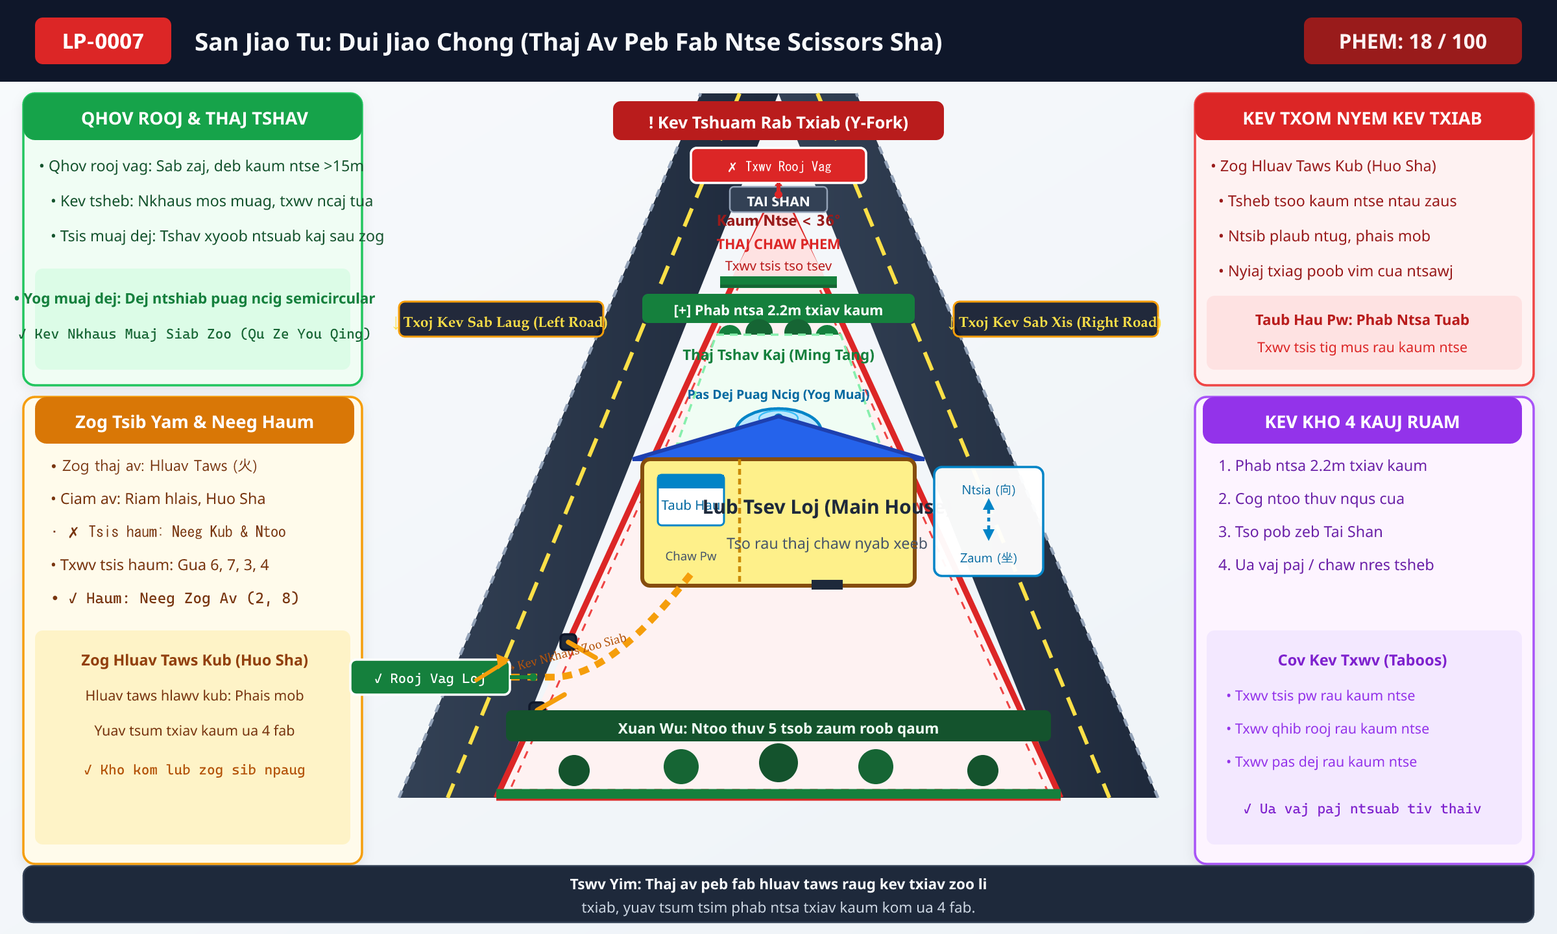
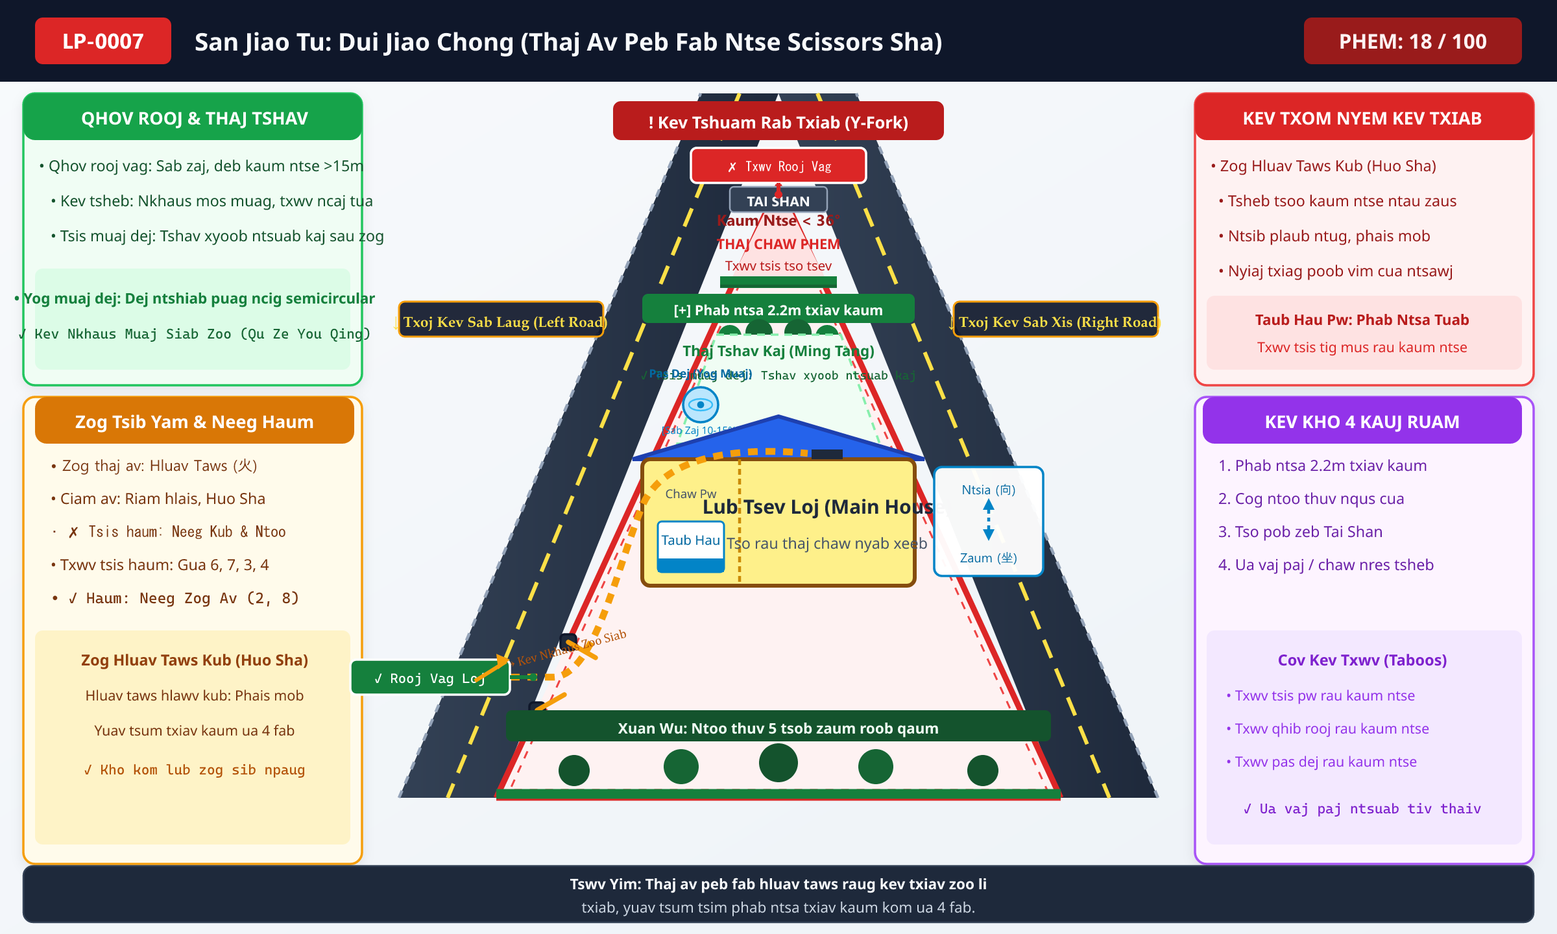
fix(plots): relocate water feature to Dragon flank with 10-15% golden ratio and clear circulation on all triangle plots

Changed region(s): [[0.3438, 0.375, 0.5625, 0.7188]]

diff --git a/script/plots_data_part1.js b/script/plots_data_part1.js
@@ -1314,15 +1314,19 @@ module.exports = [
         <text x="400" y="162" font-family="'Noto Sans Lao', 'Segoe UI', sans-serif" font-weight="bold" font-size="7.2" fill="#FFFFFF" text-anchor="middle">[+] ${escapeXml(wallPill)}</text>
 
         <!-- MING TANG BRIGHT HALL (ລານໝິງຖາງ / THAJ TSHAV KAJ) -->
-        <!-- Bounded strictly inside triangular boundaries -->
+        <!-- Wide open sunlit manicured green lawn inside plot boundaries -->
         <polygon points="368,172 432,172 452,228 348,228" fill="#F0FDF4" stroke="#86EFAC" stroke-width="1.2" stroke-dasharray="4,3"/>
-        <text x="400" y="185" font-family="'Noto Sans Lao', 'Segoe UI', sans-serif" font-weight="bold" font-size="7.5" fill="#15803D" text-anchor="middle">${isLao ? 'ລານໝິງຖາງໂລ່ງແຈ້ງ (Bright Hall / 聚气)' : 'Thaj Tshav Kaj (Ming Tang)'}</text>
+        <text x="400" y="183" font-family="'Noto Sans Lao', 'Segoe UI', sans-serif" font-weight="bold" font-size="7.5" fill="#15803D" text-anchor="middle">${isLao ? 'ລານໝິງຖາງໂລ່ງແຈ້ງ (Bright Hall / 聚气)' : 'Thaj Tshav Kaj (Ming Tang)'}</text>
+        <text x="400" y="195" font-family="'Noto Sans Lao', 'Segoe UI', sans-serif" font-size="6.2" fill="#166534" text-anchor="middle">${isLao ? '✓ ບໍ່ມີບໍ່ນ້ຳ (ດີເລີດ): ລານຫຍ້າຂຽວໂລ່ງຮັບແສງ &amp; ລົມ' : '✓ Tsis muaj dej: Tshav xyoob ntsuab kaj'}</text>
         
-        <!-- Semicircular Jade Belt Water Basin in Front of House (Central Axis) -->
-        <path d="M 378 222 A 22 12 0 0 1 422 222 Z" fill="#BAE6FD" stroke="#0284C7" stroke-width="1.5"/>
-        <circle cx="400" cy="215" r="2.5" fill="#0284C7"/>
-        <ellipse cx="400" cy="215" rx="10" ry="4" fill="none" stroke="#38BDF8" stroke-width="0.8"/>
-        <text x="400" y="205" font-family="'Noto Sans Lao', 'Segoe UI', sans-serif" font-weight="bold" font-size="6.5" fill="#0369A1" text-anchor="middle">${isLao ? 'ອ່າງນ້ຳພຸ/ສະນ້ຳໂອບອຸ້ມ (ຖ້າມີ)' : 'Pas Dej Puag Ncig (Yog Muaj)'}</text>
+        <!-- COMPACT ORNAMENTAL FOUNTAIN ON DRAGON FLANK (IF HOMEOWNER ADDS WATER) -->
+        <!-- Placed safely on Green Dragon garden flank (cx=360, cy=208), completely clear of driveway & porch! -->
+        <!-- Size: Compact proportional 10-15% of courtyard (Diameter 18px = ~2.2m, 1/6 of house facade) -->
+        <circle cx="360" cy="208" r="9" fill="#BAE6FD" stroke="#0284C7" stroke-width="1.2"/>
+        <ellipse cx="360" cy="208" rx="6" ry="3" fill="none" stroke="#38BDF8" stroke-width="0.8"/>
+        <circle cx="360" cy="208" r="1.8" fill="#0284C7"/>
+        <text x="360" y="194" font-family="'Noto Sans Lao', 'Segoe UI', sans-serif" font-weight="bold" font-size="5.8" fill="#0369A1" text-anchor="middle">${isLao ? 'ອ່າງນ້ຳພຸ (ຖ້າມີ)' : 'Pas Dej (Yog Muaj)'}</text>
+        <text x="360" y="223" font-family="'Noto Sans Lao', 'Segoe UI', sans-serif" font-size="5.2" fill="#0284C7" text-anchor="middle">${isLao ? '[ຝັ່ງມັງກອນ 10-15%]' : '[Sab Zaj 10-15%]'}</text>
 
         <!-- SAFE RESIDENTIAL QUADRANT: Main House (x=330, y=236, w=140, h=65) -->
         <polygon points="325,236 400,214 475,236" fill="#2563EB" stroke="#1E40AF" stroke-width="2"/>
@@ -1334,13 +1338,13 @@ module.exports = [
         <!-- Living Hall on Left (towards entrance) -->
         <text x="361" y="264" font-family="'Noto Sans Lao', 'Segoe UI', sans-serif" font-weight="bold" font-size="10" fill="#1E293B" text-anchor="middle">${escapeXml(houseText)}</text>
         <text x="361" y="282" font-family="'Noto Sans Lao', 'Segoe UI', sans-serif" font-size="7.5" fill="#475569" text-anchor="middle">${escapeXml(houseSub)}</text>
-        <rect x="353" y="298" width="16" height="5" fill="#1E293B"/>
+        <rect x="353" y="231" width="16" height="5" fill="#1E293B"/>
 
         <!-- Master Bedroom on Quiet Right Flank (against neighbor boundary) -->
-        <rect x="402" y="244" width="34" height="26" rx="2" fill="#FFFFFF" stroke="#0284C7" stroke-width="1"/>
-        <rect x="402" y="244" width="34" height="7" fill="#0284C7"/>
-        <text x="419" y="262" font-family="'Noto Sans Lao', 'Segoe UI', sans-serif" font-size="6.8" fill="#0369A1" text-anchor="middle">${isLao ? 'ຫົວຕຽງ' : 'Taub Hau'}</text>
-        <text x="419" y="288" font-family="'Noto Sans Lao', 'Segoe UI', sans-serif" font-size="6.2" fill="#475569" text-anchor="middle">${isLao ? 'ຫ້ອງນອນໃຫຍ່' : 'Chaw Pw'}</text>
+        <rect x="402" y="268" width="34" height="26" rx="2" fill="#FFFFFF" stroke="#0284C7" stroke-width="1"/>
+        <rect x="402" y="287" width="34" height="7" fill="#0284C7"/>
+        <text x="419" y="280" font-family="'Noto Sans Lao', 'Segoe UI', sans-serif" font-size="6.8" fill="#0369A1" text-anchor="middle">${isLao ? 'ຫົວຕຽງ' : 'Taub Hau'}</text>
+        <text x="419" y="256" font-family="'Noto Sans Lao', 'Segoe UI', sans-serif" font-size="6.2" fill="#475569" text-anchor="middle">${isLao ? 'ຫ້ອງນອນໃຫຍ່' : 'Chaw Pw'}</text>
 
         <!-- Compass Sitting & Facing Axis Badge (ທິດໜ້າ ⬆ / ທິດພິງ ⬇) -->
         <g transform="translate(480, 240)">
@@ -1353,8 +1357,8 @@ module.exports = [
         </g>
 
         <!-- DRIVEWAY PASSING THROUGH GATE TO COURTYARD -->
-        <path d="M 235 348 L 284 348 C 310 348 335 320 355 295" fill="none" stroke="#F59E0B" stroke-width="3.5" stroke-dasharray="5,4"/>
-        <text x="310" y="320" font-family="'Noto Sans Lao', 'Segoe UI', sans-serif" font-weight="bold" font-size="6.8" fill="#B45309" text-anchor="middle" transform="rotate(-15 310 320)">${isLao ? '⟿ ທາງລົດໂຄ້ງອ່ອນນ້ອມ (ຫ້າມແທງຊື່)' : '⟿ Kev Nkhaus Zoo Siab'}</text>
+        <path d="M 235 348 L 284 348 C 305 348 316 295 330 260 C 338 238 348 232 360 232" fill="none" stroke="#F59E0B" stroke-width="3.5" stroke-dasharray="5,4"/>
+        <text x="295" y="336" font-family="'Noto Sans Lao', 'Segoe UI', sans-serif" font-weight="bold" font-size="6.5" fill="#B45309" text-anchor="middle" transform="rotate(-15 295 336)">${isLao ? '⟿ ທາງລົດໂຄ້ງອ່ອນນ້ອມ' : '⟿ Kev Nkhaus Zoo Siab'}</text>
 
         <!-- [✓] RECOMMENDED GATE BADGE (OFFSET TO LEFT CLEAR OF DRIVEWAY) -->
         <g transform="translate(180, 339)">
@@ -1527,15 +1531,19 @@ module.exports = [
         <text x="400" y="162" font-family="'Noto Sans Lao', 'Segoe UI', sans-serif" font-weight="bold" font-size="7.2" fill="#FFFFFF" text-anchor="middle">[+] ${escapeXml(wallPill)}</text>
 
         <!-- MING TANG BRIGHT HALL (ລານໝິງຖາງ / THAJ TSHAV KAJ) -->
-        <!-- Bounded strictly inside triangular boundaries -->
+        <!-- Wide open sunlit manicured green lawn inside plot boundaries -->
         <polygon points="368,172 432,172 452,228 348,228" fill="#F0FDF4" stroke="#86EFAC" stroke-width="1.2" stroke-dasharray="4,3"/>
-        <text x="400" y="185" font-family="'Noto Sans Lao', 'Segoe UI', sans-serif" font-weight="bold" font-size="7.5" fill="#15803D" text-anchor="middle">${isLao ? 'ລານໝິງຖາງໂລ່ງແຈ້ງ (Bright Hall / 聚气)' : 'Thaj Tshav Kaj (Ming Tang)'}</text>
+        <text x="400" y="183" font-family="'Noto Sans Lao', 'Segoe UI', sans-serif" font-weight="bold" font-size="7.5" fill="#15803D" text-anchor="middle">${isLao ? 'ລານໝິງຖາງໂລ່ງແຈ້ງ (Bright Hall / 聚气)' : 'Thaj Tshav Kaj (Ming Tang)'}</text>
+        <text x="400" y="195" font-family="'Noto Sans Lao', 'Segoe UI', sans-serif" font-size="6.2" fill="#166534" text-anchor="middle">${isLao ? '✓ ບໍ່ມີບໍ່ນ້ຳ (ດີເລີດ): ລານຫຍ້າຂຽວໂລ່ງຮັບແສງ &amp; ລົມ' : '✓ Tsis muaj dej: Tshav xyoob ntsuab kaj'}</text>
         
-        <!-- Semicircular Jade Belt Water Basin in Front of House (Central Axis) -->
-        <path d="M 378 222 A 22 12 0 0 1 422 222 Z" fill="#BAE6FD" stroke="#0284C7" stroke-width="1.5"/>
-        <circle cx="400" cy="215" r="2.5" fill="#0284C7"/>
-        <ellipse cx="400" cy="215" rx="10" ry="4" fill="none" stroke="#38BDF8" stroke-width="0.8"/>
-        <text x="400" y="205" font-family="'Noto Sans Lao', 'Segoe UI', sans-serif" font-weight="bold" font-size="6.5" fill="#0369A1" text-anchor="middle">${isLao ? 'ອ່າງນ້ຳພຸ/ສະນ້ຳໂອບອຸ້ມ (ຖ້າມີ)' : 'Pas Dej Puag Ncig (Yog Muaj)'}</text>
+        <!-- COMPACT ORNAMENTAL FOUNTAIN ON DRAGON FLANK (IF HOMEOWNER ADDS WATER) -->
+        <!-- Placed safely on Green Dragon garden flank (cx=360, cy=208), completely clear of driveway & porch! -->
+        <!-- Size: Compact proportional 10-15% of courtyard (Diameter 18px = ~2.2m, 1/6 of house facade) -->
+        <circle cx="360" cy="208" r="9" fill="#BAE6FD" stroke="#0284C7" stroke-width="1.2"/>
+        <ellipse cx="360" cy="208" rx="6" ry="3" fill="none" stroke="#38BDF8" stroke-width="0.8"/>
+        <circle cx="360" cy="208" r="1.8" fill="#0284C7"/>
+        <text x="360" y="194" font-family="'Noto Sans Lao', 'Segoe UI', sans-serif" font-weight="bold" font-size="5.8" fill="#0369A1" text-anchor="middle">${isLao ? 'ອ່າງນ້ຳພຸ (ຖ້າມີ)' : 'Pas Dej (Yog Muaj)'}</text>
+        <text x="360" y="223" font-family="'Noto Sans Lao', 'Segoe UI', sans-serif" font-size="5.2" fill="#0284C7" text-anchor="middle">${isLao ? '[ຝັ່ງມັງກອນ 10-15%]' : '[Sab Zaj 10-15%]'}</text>
 
         <!-- SAFE RESIDENTIAL QUADRANT: Main House (x=330, y=236, w=140, h=65) -->
         <polygon points="325,236 400,214 475,236" fill="#2563EB" stroke="#1E40AF" stroke-width="2"/>
@@ -1545,15 +1553,15 @@ module.exports = [
         <line x1="378" y1="236" x2="378" y2="301" stroke="#CA8A04" stroke-width="1.5" stroke-dasharray="3,2"/>
         
         <!-- Master Bedroom on Quiet Left Flank (against neighbor boundary) -->
-        <rect x="338" y="244" width="34" height="26" rx="2" fill="#FFFFFF" stroke="#0284C7" stroke-width="1"/>
-        <rect x="338" y="244" width="34" height="7" fill="#0284C7"/>
-        <text x="355" y="262" font-family="'Noto Sans Lao', 'Segoe UI', sans-serif" font-size="6.8" fill="#0369A1" text-anchor="middle">${isLao ? 'ຫົວຕຽງ' : 'Taub Hau'}</text>
-        <text x="355" y="288" font-family="'Noto Sans Lao', 'Segoe UI', sans-serif" font-size="6.2" fill="#475569" text-anchor="middle">${isLao ? 'ຫ້ອງນອນໃຫຍ່' : 'Chaw Pw'}</text>
+        <rect x="338" y="268" width="34" height="26" rx="2" fill="#FFFFFF" stroke="#0284C7" stroke-width="1"/>
+        <rect x="338" y="287" width="34" height="7" fill="#0284C7"/>
+        <text x="355" y="280" font-family="'Noto Sans Lao', 'Segoe UI', sans-serif" font-size="6.8" fill="#0369A1" text-anchor="middle">${isLao ? 'ຫົວຕຽງ' : 'Taub Hau'}</text>
+        <text x="355" y="256" font-family="'Noto Sans Lao', 'Segoe UI', sans-serif" font-size="6.2" fill="#475569" text-anchor="middle">${isLao ? 'ຫ້ອງນອນໃຫຍ່' : 'Chaw Pw'}</text>
 
         <!-- Living Hall on Right (towards road & entrance) -->
         <text x="424" y="264" font-family="'Noto Sans Lao', 'Segoe UI', sans-serif" font-weight="bold" font-size="10" fill="#1E293B" text-anchor="middle">${escapeXml(houseText)}</text>
         <text x="424" y="282" font-family="'Noto Sans Lao', 'Segoe UI', sans-serif" font-size="7.5" fill="#475569" text-anchor="middle">${escapeXml(houseSub)}</text>
-        <rect x="416" y="298" width="16" height="5" fill="#1E293B"/>
+        <rect x="416" y="231" width="16" height="5" fill="#1E293B"/>
 
         <!-- Compass Sitting & Facing Axis Badge (ທິດໜ້າ ⬆ / ທິດພິງ ⬇) -->
         <g transform="translate(480, 240)">
@@ -1566,8 +1574,8 @@ module.exports = [
         </g>
 
         <!-- DRIVEWAY PASSING THROUGH GATE TO COURTYARD -->
-        <path d="M 565 348 L 516 348 C 490 348 465 320 445 295" fill="none" stroke="#F59E0B" stroke-width="3.5" stroke-dasharray="5,4"/>
-        <text x="340" y="280" font-family="'Noto Sans Lao', 'Segoe UI', sans-serif" font-weight="bold" font-size="6.8" fill="#B45309" text-anchor="middle" transform="rotate(-25 340 280)">${isLao ? '⟿ ທາງລົດໂຄ້ງອ່ອນນ້ອມ (ຫ້າມແທງຊື່)' : '⟿ Kev Nkhaus Zoo Siab'}</text>
+        <path d="M 565 348 L 516 348 C 495 348 484 295 470 260 C 462 238 450 232 424 232" fill="none" stroke="#F59E0B" stroke-width="3.5" stroke-dasharray="5,4"/>
+        <text x="495" y="336" font-family="'Noto Sans Lao', 'Segoe UI', sans-serif" font-weight="bold" font-size="6.5" fill="#B45309" text-anchor="middle" transform="rotate(15 495 336)">${isLao ? '⟿ ທາງລົດໂຄ້ງອ່ອນນ້ອມ' : '⟿ Kev Nkhaus Zoo Siab'}</text>
 
         <!-- [✓] RECOMMENDED GATE BADGE (OFFSET TO RIGHT CLEAR OF DRIVEWAY) -->
         <g transform="translate(528, 339)">
@@ -1743,21 +1751,24 @@ module.exports = [
         <line x1="359" y1="320" x2="368" y2="310" stroke="#F59E0B" stroke-width="2.5" stroke-linecap="round"/>
         <line x1="389" y1="320" x2="380" y2="310" stroke="#F59E0B" stroke-width="2.5" stroke-linecap="round"/>
 
-        <!-- S-CURVE DRIVEWAY FROM FRONT GATE TO HOUSE PORCH -->
-        <path d="M 370 320 C 345 285 340 245 355 215 C 365 195 395 190 416 186" fill="none" stroke="#F59E0B" stroke-width="3" stroke-dasharray="5,4"/>
-        <text x="325" y="245" font-family="'Noto Sans Lao', 'Segoe UI', sans-serif" font-weight="bold" font-size="6.8" fill="#B45309" text-anchor="middle" transform="rotate(-30 325 245)">${isLao ? '⟿ ທາງລົດໂຄ້ງອ່ອນນ້ອມ' : '⟿ Kev Nkhaus Zoo Siab'}</text>
+        <!-- S-CURVE DRIVEWAY FROM FRONT GATE TO HOUSE PORCH (CLEAR & UNOBSTRUCTED) -->
+        <path d="M 370 320 C 375 270 395 230 416 186" fill="none" stroke="#F59E0B" stroke-width="3.5" stroke-dasharray="5,4"/>
+        <text x="410" y="255" font-family="'Noto Sans Lao', 'Segoe UI', sans-serif" font-weight="bold" font-size="6.8" fill="#B45309" text-anchor="middle" transform="rotate(65 410 255)">${isLao ? '⟿ ທາງລົດໂຄ້ງອ່ອນນ້ອມ' : '⟿ Kev Nkhaus Zoo Siab'}</text>
 
         <!-- MING TANG BRIGHT HALL (ລານໝິງຖາງ / THAJ TSHAV KAJ) -->
-        <!-- Bounded strictly inside the triangular plot with safe setbacks from red side fences -->
+        <!-- Wide open manicured lawn inside plot boundaries (70-80% of courtyard) -->
         <polygon points="325,192 475,192 432,285 368,285" fill="#F0FDF4" stroke="#86EFAC" stroke-width="1.2" stroke-dasharray="4,3"/>
-        <text x="400" y="260" font-family="'Noto Sans Lao', 'Segoe UI', sans-serif" font-weight="bold" font-size="8.2" fill="#15803D" text-anchor="middle">${isLao ? 'ລານໝິງຖາງໂລ່ງແຈ້ງ (Bright Hall / 聚气)' : 'Thaj Tshav Kaj (Ming Tang)'}</text>
-        <text x="400" y="274" font-family="'Noto Sans Lao', 'Segoe UI', sans-serif" font-size="6.5" fill="#166534" text-anchor="middle">${isLao ? 'ເປີດໂລ່ງຮັບແສງສະຫວ່າງ &amp; ພະລັງຊີ່ (Ju Qi)' : 'Qhib siab txais teeb &amp; txais zog Qi'}</text>
+        <text x="395" y="268" font-family="'Noto Sans Lao', 'Segoe UI', sans-serif" font-weight="bold" font-size="8.2" fill="#15803D" text-anchor="middle">${isLao ? 'ລານໝິງຖາງໂລ່ງແຈ້ງ (Bright Hall / 聚气)' : 'Thaj Tshav Kaj (Ming Tang)'}</text>
+        <text x="395" y="280" font-family="'Noto Sans Lao', 'Segoe UI', sans-serif" font-size="6.2" fill="#166534" text-anchor="middle">${isLao ? '✓ ບໍ່ມີບໍ່ນ້ຳ (ດີເລີດ): ລານຫຍ້າຂຽວໂລ່ງຮັບແສງ &amp; ລົມ' : '✓ Tsis muaj dej: Tshav xyoob ntsuab kaj'}</text>
         
-        <!-- Semicircular Jade Belt Water Basin in Front of House (Central Axis) -->
-        <path d="M 372 205 A 28 16 0 0 0 428 205 Z" fill="#BAE6FD" stroke="#0284C7" stroke-width="1.5"/>
-        <circle cx="400" cy="214" r="2.8" fill="#0284C7"/>
-        <ellipse cx="400" cy="214" rx="12" ry="4.5" fill="none" stroke="#38BDF8" stroke-width="0.9"/>
-        <text x="400" y="198" font-family="'Noto Sans Lao', 'Segoe UI', sans-serif" font-weight="bold" font-size="6.8" fill="#0369A1" text-anchor="middle">${isLao ? 'ອ່າງນ້ຳພຸ/ສະນ້ຳໂອບອຸ້ມ (ຖ້າມີ)' : 'Pas Dej Puag Ncig (Yog Muaj)'}</text>
+        <!-- COMPACT ORNAMENTAL FOUNTAIN ON DRAGON FLANK (IF HOMEOWNER ADDS WATER) -->
+        <!-- Placed safely on the Green Dragon garden flank (X=338, Y=230), completely clear of driveway! -->
+        <!-- Size: Compact proportional 10-15% of courtyard (Diameter 26px = ~2.6m, 1/5 of house facade) -->
+        <circle cx="338" cy="230" r="13" fill="#BAE6FD" stroke="#0284C7" stroke-width="1.2"/>
+        <ellipse cx="338" cy="230" rx="8" ry="4" fill="none" stroke="#38BDF8" stroke-width="0.8"/>
+        <circle cx="338" cy="230" r="2.2" fill="#0284C7"/>
+        <text x="338" y="212" font-family="'Noto Sans Lao', 'Segoe UI', sans-serif" font-weight="bold" font-size="6.2" fill="#0369A1" text-anchor="middle">${isLao ? 'ອ່າງນ້ຳພຸ (ຖ້າມີ)' : 'Pas Dej (Yog Muaj)'}</text>
+        <text x="338" y="249" font-family="'Noto Sans Lao', 'Segoe UI', sans-serif" font-size="5.5" fill="#0284C7" text-anchor="middle">${isLao ? '[ຝັ່ງມັງກອນ 10-15%]' : '[Sab Zaj 10-15%]'}</text>
 
         <!-- Taboo Note at Acute Apex -->
         <text x="400" y="337" font-family="'Noto Sans Lao', 'Segoe UI', sans-serif" font-weight="bold" font-size="6.2" fill="#DC2626" text-anchor="middle">${isLao ? '🚫 ຖົມໜອງນ້ຳແຫຼມຖິ້ມ (ຫ້າມມີນ້ຳໃນມຸມແຫຼມ)' : '🚫 Ntsaws pas dej kaum ntse pov tseg'}</text>

diff --git a/script/render_all_16_masterclass_plots.js b/script/render_all_16_masterclass_plots.js
@@ -353,15 +353,19 @@ function renderScissorsShaSvg(lang = 'lao') {
   <circle cx="425" cy="173" r="6" fill="#15803D"/>
 
   <!-- MING TANG BRIGHT HALL (ລານໝິງຖາງ / THAJ TSHAV KAJ) -->
-  <!-- Bounded strictly inside triangular boundaries -->
+  <!-- Wide open sunlit manicured green lawn inside plot boundaries -->
   <polygon points="368,172 432,172 452,228 348,228" fill="#F0FDF4" stroke="#86EFAC" stroke-width="1.2" stroke-dasharray="4,3"/>
-  <text x="400" y="185" font-family="'Noto Sans Lao', 'Segoe UI', sans-serif" font-weight="bold" font-size="7.5" fill="#15803D" text-anchor="middle">${isLao ? 'ລານໝິງຖາງໂລ່ງແຈ້ງ (Bright Hall / 聚气)' : 'Thaj Tshav Kaj (Ming Tang)'}</text>
+  <text x="400" y="183" font-family="'Noto Sans Lao', 'Segoe UI', sans-serif" font-weight="bold" font-size="7.5" fill="#15803D" text-anchor="middle">${isLao ? 'ລານໝິງຖາງໂລ່ງແຈ້ງ (Bright Hall / 聚气)' : 'Thaj Tshav Kaj (Ming Tang)'}</text>
+  <text x="400" y="195" font-family="'Noto Sans Lao', 'Segoe UI', sans-serif" font-size="6.2" fill="#166534" text-anchor="middle">${isLao ? '✓ ບໍ່ມີບໍ່ນ້ຳ (ດີເລີດ): ລານຫຍ້າຂຽວໂລ່ງຮັບແສງ &amp; ລົມ' : '✓ Tsis muaj dej: Tshav xyoob ntsuab kaj'}</text>
   
-  <!-- Semicircular Jade Belt Water Basin in Front of House (Central Axis) -->
-  <path d="M 378 222 A 22 12 0 0 1 422 222 Z" fill="#BAE6FD" stroke="#0284C7" stroke-width="1.5"/>
-  <circle cx="400" cy="215" r="2.5" fill="#0284C7"/>
-  <ellipse cx="400" cy="215" rx="10" ry="4" fill="none" stroke="#38BDF8" stroke-width="0.8"/>
-  <text x="400" y="205" font-family="'Noto Sans Lao', 'Segoe UI', sans-serif" font-weight="bold" font-size="6.5" fill="#0369A1" text-anchor="middle">${isLao ? 'ອ່າງນ້ຳພຸ/ສະນ້ຳໂອບອຸ້ມ (ຖ້າມີ)' : 'Pas Dej Puag Ncig (Yog Muaj)'}</text>
+  <!-- COMPACT ORNAMENTAL FOUNTAIN ON DRAGON FLANK (IF HOMEOWNER ADDS WATER) -->
+  <!-- Placed safely on Green Dragon garden flank (cx=360, cy=208), completely clear of driveway & porch! -->
+  <!-- Size: Compact proportional 10-15% of courtyard (Diameter 18px = ~2.2m, 1/6 of house facade) -->
+  <circle cx="360" cy="208" r="9" fill="#BAE6FD" stroke="#0284C7" stroke-width="1.2"/>
+  <ellipse cx="360" cy="208" rx="6" ry="3" fill="none" stroke="#38BDF8" stroke-width="0.8"/>
+  <circle cx="360" cy="208" r="1.8" fill="#0284C7"/>
+  <text x="360" y="194" font-family="'Noto Sans Lao', 'Segoe UI', sans-serif" font-weight="bold" font-size="5.8" fill="#0369A1" text-anchor="middle">${isLao ? 'ອ່າງນ້ຳພຸ (ຖ້າມີ)' : 'Pas Dej (Yog Muaj)'}</text>
+  <text x="360" y="223" font-family="'Noto Sans Lao', 'Segoe UI', sans-serif" font-size="5.2" fill="#0284C7" text-anchor="middle">${isLao ? '[ຝັ່ງມັງກອນ 10-15%]' : '[Sab Zaj 10-15%]'}</text>
 
   <!-- SAFE RESIDENTIAL QUADRANT: Main House (x=330, y=236, w=140, h=65) -->
   <polygon points="325,236 400,214 475,236" fill="#2563EB" stroke="#1E40AF" stroke-width="2"/>
@@ -371,17 +375,17 @@ function renderScissorsShaSvg(lang = 'lao') {
   <line x1="380" y1="236" x2="380" y2="301" stroke="#CA8A04" stroke-width="1.5" stroke-dasharray="3,2"/>
   
   <!-- Left Room: Master Bedroom with Bed Head Against Solid Rear Wall -->
-  <rect x="338" y="244" width="34" height="26" rx="2" fill="#FFFFFF" stroke="#0284C7" stroke-width="1"/>
-  <rect x="338" y="244" width="34" height="7" fill="#0284C7"/>
-  <text x="355" y="262" font-family="'Noto Sans Lao', 'Segoe UI', sans-serif" font-size="6.8" fill="#0369A1" text-anchor="middle">${isLao ? 'ຫົວຕຽງ' : 'Taub Hau'}</text>
-  <text x="355" y="288" font-family="'Noto Sans Lao', 'Segoe UI', sans-serif" font-size="6.2" fill="#475569" text-anchor="middle">${isLao ? 'ຫ້ອງນອນໃຫຍ່' : 'Chaw Pw'}</text>
+  <rect x="338" y="268" width="34" height="26" rx="2" fill="#FFFFFF" stroke="#0284C7" stroke-width="1"/>
+  <rect x="338" y="287" width="34" height="7" fill="#0284C7"/>
+  <text x="355" y="280" font-family="'Noto Sans Lao', 'Segoe UI', sans-serif" font-size="6.8" fill="#0369A1" text-anchor="middle">${isLao ? 'ຫົວຕຽງ' : 'Taub Hau'}</text>
+  <text x="355" y="256" font-family="'Noto Sans Lao', 'Segoe UI', sans-serif" font-size="6.2" fill="#475569" text-anchor="middle">${isLao ? 'ຫ້ອງນອນໃຫຍ່' : 'Chaw Pw'}</text>
 
   <!-- Right Room: Main Living Hall -->
   <text x="425" y="264" font-family="'Noto Sans Lao', 'Segoe UI', sans-serif" font-weight="bold" font-size="10" fill="#1E293B" text-anchor="middle">${t.house}</text>
   <text x="425" y="282" font-family="'Noto Sans Lao', 'Segoe UI', sans-serif" font-size="7.8" fill="#475569" text-anchor="middle">${t.houseDesc}</text>
   
-  <!-- Front Porch / Door Indicator -->
-  <rect x="417" y="298" width="16" height="5" fill="#1E293B"/>
+  <!-- Front Porch / Door Indicator (Facing Front Ming Tang) -->
+  <rect x="417" y="231" width="16" height="5" fill="#1E293B"/>
 
   <!-- Compass Sitting & Facing Axis Badge (ທິດໜ້າ ⬆ / ທິດພິງ ⬇) -->
   <g transform="translate(480, 240)">
@@ -393,9 +397,9 @@ function renderScissorsShaSvg(lang = 'lao') {
     <text x="28" y="49" font-family="'Noto Sans Lao', 'Segoe UI', sans-serif" font-weight="bold" font-size="6.5" fill="#0369A1" text-anchor="middle">${isLao ? 'ທິດພິງ (坐)' : 'Zaum (坐)'}</text>
   </g>
 
-  <!-- Left Dragon Driveway: Through the Fence Gate to Courtyard -->
-  <path d="M 235 348 L 284 348 C 310 348 335 320 355 295" fill="none" stroke="#F59E0B" stroke-width="3.5" stroke-dasharray="5,4"/>
-  <text x="290" y="338" font-family="'Noto Sans Lao', 'Segoe UI', sans-serif" font-weight="bold" font-size="6.5" fill="#B45309" text-anchor="middle" transform="rotate(-15 290 338)">${isLao ? '⟿ ທາງລົດໂຄ້ງອ່ອນນ້ອມ (ຫ້າມແທງຊື່)' : '⟿ Kev Nkhaus Zoo Siab'}</text>
+  <!-- Left Dragon Driveway: Through the Fence Gate to Courtyard & Porch -->
+  <path d="M 235 348 L 284 348 C 305 348 316 295 330 260 C 342 232 385 230 415 233" fill="none" stroke="#F59E0B" stroke-width="3.5" stroke-dasharray="5,4"/>
+  <text x="290" y="336" font-family="'Noto Sans Lao', 'Segoe UI', sans-serif" font-weight="bold" font-size="6.5" fill="#B45309" text-anchor="middle" transform="rotate(-15 290 336)">${isLao ? '⟿ ທາງລົດໂຄ້ງອ່ອນນ້ອມ' : '⟿ Kev Nkhaus Zoo Siab'}</text>
 
   <!-- [✓] RECOMMENDED GATE BADGE (OFFSET TO AVOID DRIVEWAY OVERLAP) -->
   <g transform="translate(180, 339)">
